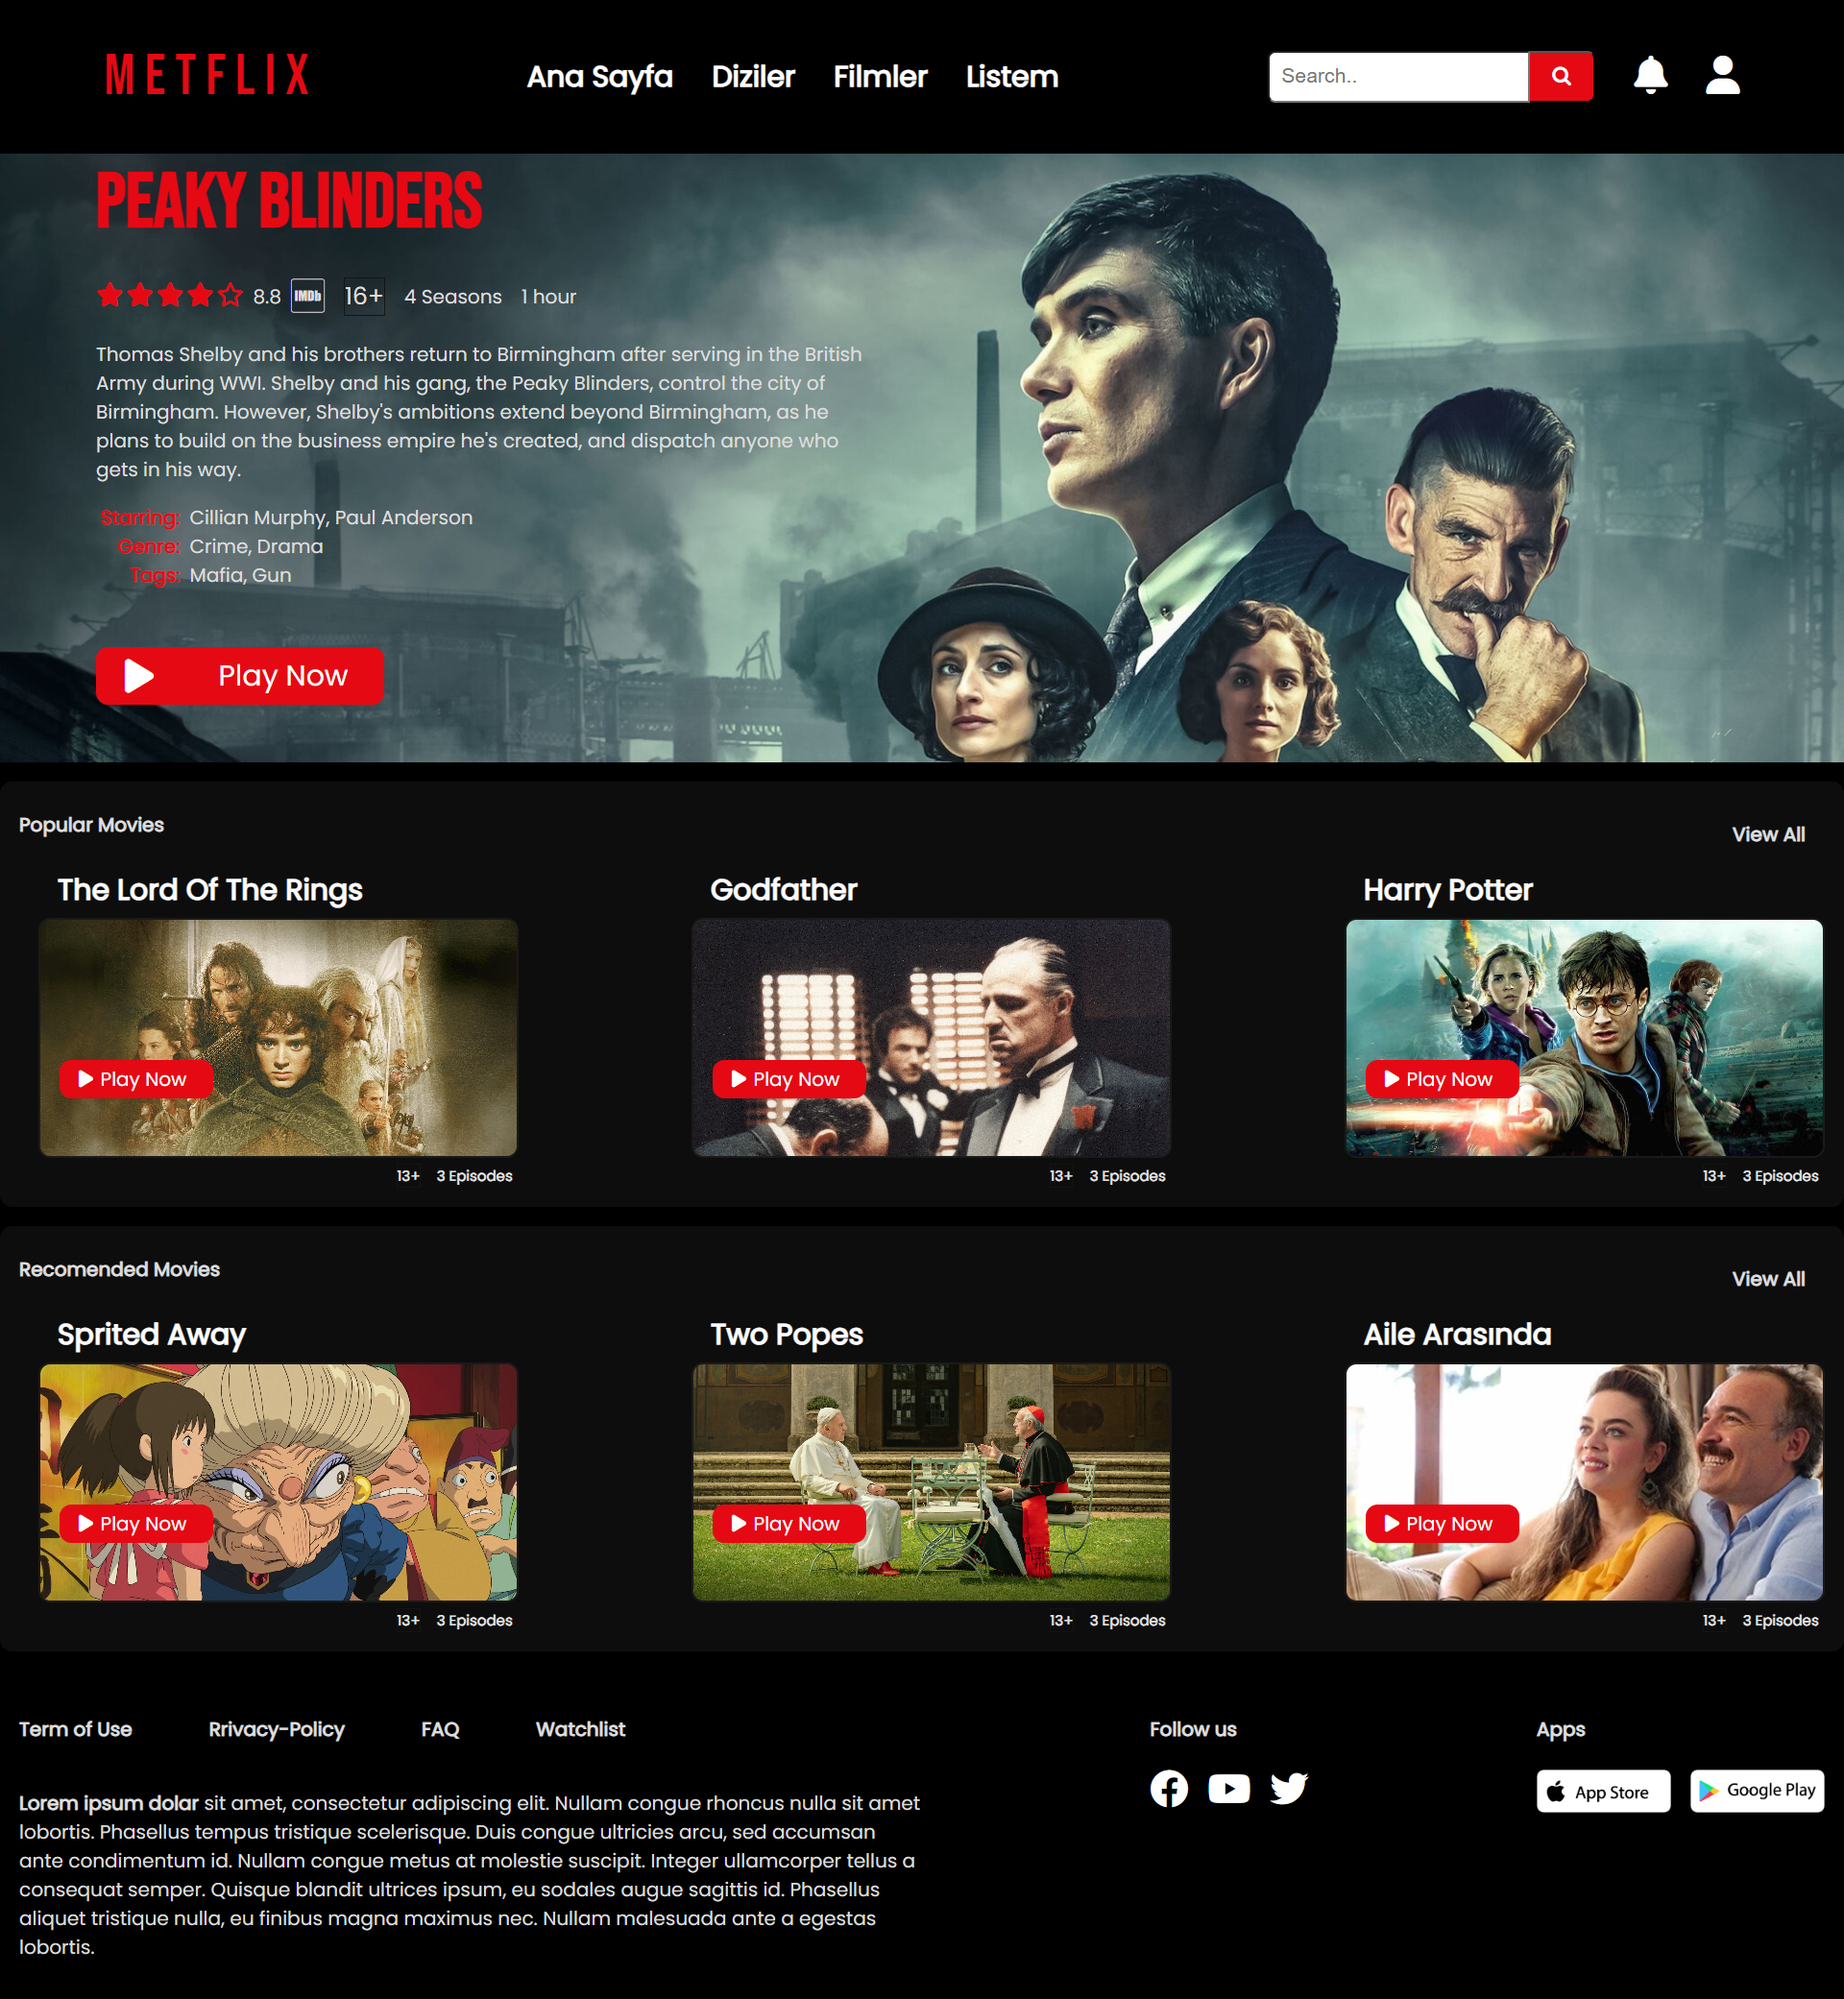
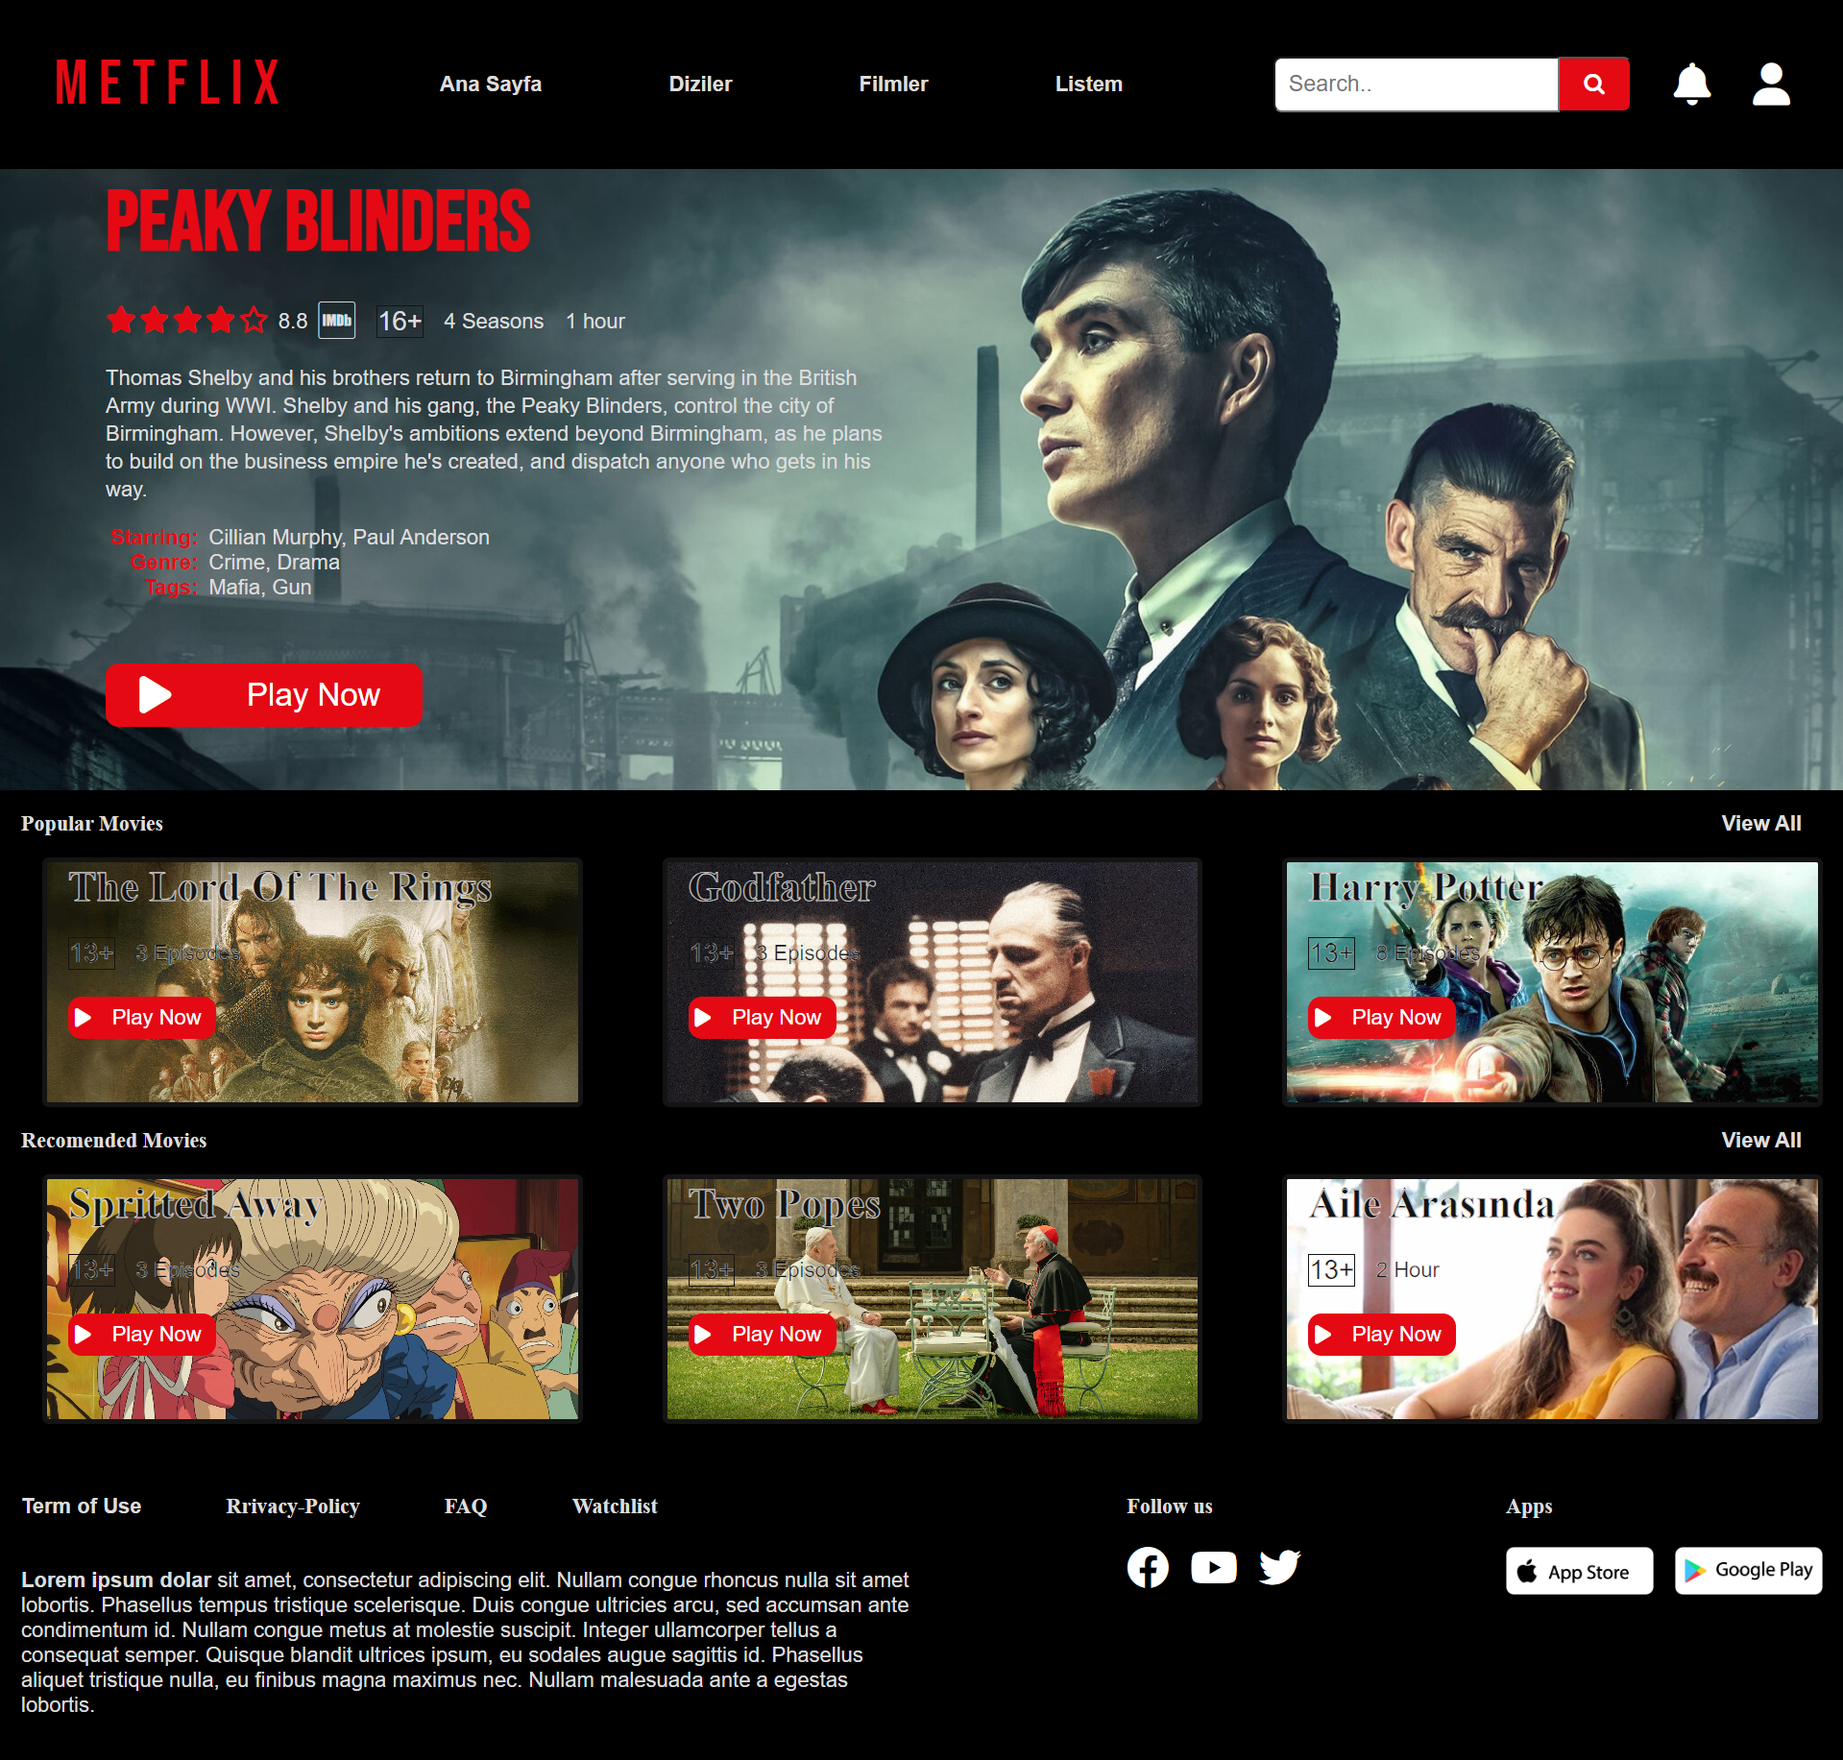
Project updated

diff --git a/index.html b/index.html
@@ -94,7 +94,7 @@
                 </div>
                 <div class="movie-row">
                     <div class="movie-column">
-                        <h3>The Lord Of The Rings</h3>
+                        <h3>The Lord Of The Rings Series</h3>
                         <div class="LOTR movie">
                             <div class="play-button-area">
                                 <i class="fa-solid fa-play"></i>
@@ -103,7 +103,10 @@
                                 </button>
                             </div>
                         </div>
-                        <div class="warning-duration-area">
+                        <div class="genre-warning-duration-area">
+                            <div class="genre">
+                                <p>Action, Adventure, Drama</p>
+                            </div>
                             <div class="warning-sign">
                                 <p>13+</p>
                             </div>
@@ -113,7 +116,7 @@
                         </div>
                     </div>
                     <div class="movie-column">
-                        <h3>Godfather</h3>
+                        <h3>Godfather Series</h3>
                         <div class="Godfather movie">
                             <div class="play-button-area">
                                 <i class="fa-solid fa-play"></i>
@@ -122,9 +125,12 @@
                                 </button>
                             </div>
                         </div>
-                        <div class="warning-duration-area">
+                        <div class="genre-warning-duration-area">
+                            <div class="genre">
+                                <p>Crime, Drama</p>
+                            </div>
                             <div class="warning-sign">
-                                <p>13+</p>
+                                <p>18+</p>
                             </div>
                             <div class="duration">
                                 <p>3 Episodes</p>
@@ -132,7 +138,7 @@
                         </div>
                     </div>
                     <div class="movie-column">
-                        <h3>Harry Potter</h3>
+                        <h3>Harry Potter Series</h3>
                         <div class="HP movie">
                             <div class="play-button-area">
                                 <i class="fa-solid fa-play"></i>
@@ -141,12 +147,37 @@
                                 </button>
                             </div>
                         </div>
-                        <div class="warning-duration-area">
+                        <div class="genre-warning-duration-area">
+                            <div class="genre">
+                                <p>Adventure, Family, Fantasy</p>
+                            </div>
                             <div class="warning-sign">
-                                <p>13+</p>
+                                <p>7+</p>
                             </div>
                             <div class="duration">
-                                <p>3 Episodes</p>
+                                <p>7 Episodes</p>
+                            </div>
+                        </div>
+                    </div>
+                    <div class="movie-column">
+                        <h3>Star Wars Series</h3>
+                        <div class="StarWars movie">
+                            <div class="play-button-area">
+                                <i class="fa-solid fa-play"></i>
+                                <button class="play-button">
+                                    <a href="">Play Now</a>
+                                </button>
+                            </div>
+                        </div>
+                        <div class="genre-warning-duration-area">
+                            <div class="genre">
+                                <p>Action, Adventure, Fantasy</p>
+                            </div>
+                            <div class="warning-sign">
+                                <p>7+</p>
+                            </div>
+                            <div class="duration">
+                                <p>9 Episodes</p>
                             </div>
                         </div>
                     </div>
@@ -159,25 +190,6 @@
                 </div>
                 <div class="movie-row">
                     <div class="movie-column">
-                        <h3>Sprited Away</h3>
-                        <div class="SpritedAway movie">
-                            <div class="play-button-area">
-                                <i class="fa-solid fa-play"></i>
-                                <button class="play-button">
-                                    <a href="">Play Now</a>
-                                </button>
-                            </div>
-                        </div>
-                        <div class="warning-duration-area">
-                            <div class="warning-sign">
-                                <p>13+</p>
-                            </div>
-                            <div class="duration">
-                                <p>3 Episodes</p>
-                            </div>
-                        </div>
-                    </div>
-                    <div class="movie-column">
                         <h3>Two Popes</h3>
                         <div class="TwoPopes movie">
                             <div class="play-button-area">
@@ -187,12 +199,15 @@
                                 </button>
                             </div>
                         </div>
-                        <div class="warning-duration-area">
+                        <div class="genre-warning-duration-area">
+                            <div class="genre">
+                                <p>Biography, Comedy, Drama</p>
+                            </div>
                             <div class="warning-sign">
                                 <p>13+</p>
                             </div>
                             <div class="duration">
-                                <p>3 Episodes</p>
+                                <p>2h 5min</p>
                             </div>
                         </div>
                     </div>
@@ -206,12 +221,59 @@
                                 </button>
                             </div>
                         </div>
-                        <div class="warning-duration-area">
+                        <div class="genre-warning-duration-area">
+                            <div class="genre">
+                                <p>Comedy</p>
+                            </div>
                             <div class="warning-sign">
                                 <p>13+</p>
                             </div>
                             <div class="duration">
-                                <p>3 Episodes</p>
+                                <p>2h 4min</p>
+                            </div>
+                        </div>
+                    </div>
+                    <div class="movie-column">
+                        <h3>Sprited Away</h3>
+                        <div class="SpritedAway movie">
+                            <div class="play-button-area">
+                                <i class="fa-solid fa-play"></i>
+                                <button class="play-button">
+                                    <a href="">Play Now</a>
+                                </button>
+                            </div>
+                        </div>
+                        <div class="genre-warning-duration-area">
+                            <div class="genre">
+                                <p>Animation, Adventure , Family</p>
+                            </div>
+                            <div class="warning-sign">
+                                <p>7+</p>
+                            </div>
+                            <div class="duration">
+                                <p>2h 5m</p>
+                            </div>
+                        </div>
+                    </div>
+                    <div class="movie-column">
+                        <h3>Pirates of the Carabbien</h3>
+                        <div class="POTC movie">
+                            <div class="play-button-area">
+                                <i class="fa-solid fa-play"></i>
+                                <button class="play-button">
+                                    <a href="">Play Now</a>
+                                </button>
+                            </div>
+                        </div>
+                        <div class="genre-warning-duration-area">
+                            <div class="genre">
+                                <p>Action, Adventure, Fantasy</p>
+                            </div>
+                            <div class="warning-sign">
+                                <p>13+</p>
+                            </div>
+                            <div class="duration">
+                                <p>5 Episodes</p>
                             </div>
                         </div>
                     </div>

diff --git a/css/style.css b/css/style.css
@@ -277,7 +277,7 @@ form.search-area::after {
     display: flex;
     flex-direction: column;
     gap:0.3rem;
-    width: 30%;
+    width: 25%;
     height: 15rem;
 }
 .movie{
@@ -305,7 +305,7 @@ form.search-area::after {
     -webkit-text-stroke: 0.1px rgb(235, 229, 229);
     color:rgb(20, 20, 20);
 }
-.movie-column .warning-duration-area {
+.movie-column .genre-warning-duration-area {
     display: flex;
     flex-direction: row;
     justify-content: flex-end;
@@ -314,7 +314,7 @@ form.search-area::after {
     gap:0.5rem;
     -webkit-text-stroke: 0.1px rgb(255, 255, 255);
 }
-.movie-column .warning-duration-area p{
+.movie-column .genre-warning-duration-area p{
     margin:0;
     margin-right:5px;
     font-size: 0.75rem;
@@ -329,7 +329,6 @@ form.search-area::after {
     height: 2rem;
     display: flex;
     justify-content: center;
-    
 }
 .movie .play-button-area i,
 .movie .play-button-area a{
@@ -353,6 +352,13 @@ form.search-area::after {
 }
 .TwoPopes{
     background-image: url(../img/TwoPopes.jpg);
+}
+.StarWars{
+    background-image: url(../img/StarWars.jpg);
+}
+.POTC{
+    background-image: url(../img/POTC.jpg);
+
 }
 .recomended-movies{
     display: flex;
